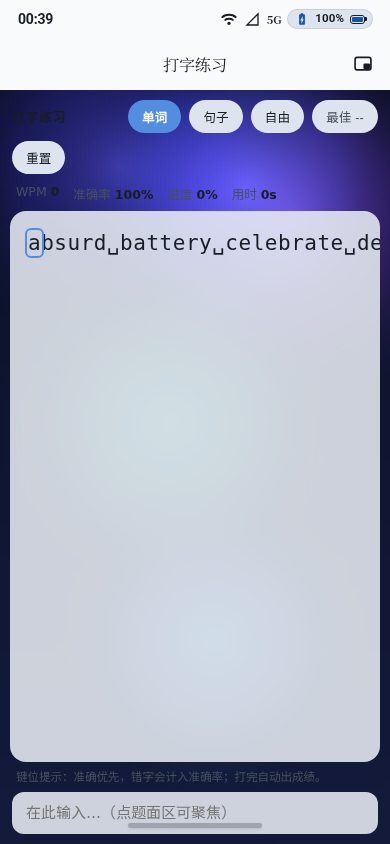
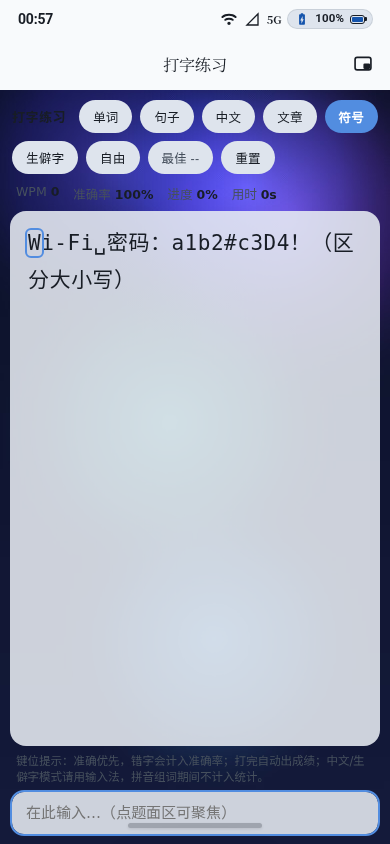
v9.07: #122 打字练习二期闭环（中文短句/文章/符号混打/生僻字四模式 + code-point 安全比对 + IME 组词保护）。①评分核 core.js 升级：compareChars/stats 改 Array.from 按 code point 切分（astral 生僻字代理对如 𠮷 不劈裂，extra/进度/光标全链路码点口径）+ 四套自写题源——中文短句 20 句（全角标点/≤30 码点）、文章段落 5 段（每段 ≥50 码点）、符号混打 12 条（全半角标点/数字/货币/正则样式混排）、生僻字 48 字分六组（全部 BMP 单码位，空格分隔）。②UI：新增 中文/文章/

diff --git a/ios-desktop/apps/typing/core.js b/ios-desktop/apps/typing/core.js
@@ -1,25 +1,29 @@
-/* ==================== core.js — 打字练习核（#122 一期 · v9.06） ====================
+/* ==================== core.js — 打字练习核（#122 一期 v9.06 + 二期 v9.07） ====================
  * 纯函数 IIFE 双挂载（terminal-core 沙箱直驱范式 / v123/v124 同款）：顶层零副作用，
  * 浏览器挂 window.__typingCore，vitest 经 new Function('window', SRC) 沙箱提取。
  *
  * 指标（nightsky nstypepractise t_eftt 练习指示器对标：逐字比对 + 错字高亮 + 完成度）：
  *   · 逐字比对 —— 位置对位（typed[i] vs target[i]，严格区分大小写），
- *     状态四态 pending/ok/bad/extra（extra=超出目标长度的多打字符，一律记错）
+ *     状态四态 pending/ok/bad/extra（extra=超出目标长度的多打字符，一律记错）；
+ *     v9.07 起按 code point 切分（Array.from），生僻字代理对（如 𠮷）不劈裂
  *   · WPM —— 净速度 = 正确字符数 / 5 / 分钟（标准 5 字符=1 词，净制剔除错字）
  *   · 准确率 —— 正确字符数 / 已打字符数（含 extra），未打键不计
  *   · 分级 —— 工程自定值（Human Benchmark 无打字分级常量可循，留痕非对标物）：
  *     键指如飞 ≥60wpm 且 acc≥97 / 熟练 ≥40 / 入门 ≥25 / 新手
  * 词库来源：英文单词模式复用 #28 word 应用 555 词 CET-4 词库（js/word-core.js
  * __wordCore.WORD_BANK，UI 侧 script 直载）；此处仅提供确定性采样（零随机，stride 选取）。
+ * v9.07 二期题源（自写，工程自定内容留痕）：中文短句 20 / 文章段落 5 / 符号混打 12 /
+ * 生僻字 48 字分六组（全部 BMP 单码位，展示与比对均按 code point）。
  */
 (function () {
   'use strict';
 
-  /** 逐字比对：返回与 target 等长的状态数组 + 尾部 extra 多打段 */
+  /** 逐字比对：返回与 target 等码点长的状态数组 + 尾部 extra 多打段
+   *  （v9.07 起 Array.from 按 code point 切分， astral 生僻字不劈裂） */
   function compareChars(target, typed) {
     var out = [];
-    var t = String(target == null ? '' : target);
-    var y = String(typed == null ? '' : typed);
+    var t = Array.from(String(target == null ? '' : target));
+    var y = Array.from(String(typed == null ? '' : typed));
     for (var i = 0; i < t.length; i++) {
       out.push({ ch: t[i], status: i < y.length ? (y[i] === t[i] ? 'ok' : 'bad') : 'pending' });
     }
@@ -29,10 +33,10 @@
     return out;
   }
 
-  /** 统计：净 WPM / 准确率 / 进度 / 完成态（elapsedMs 由调用方计时） */
+  /** 统计：净 WPM / 准确率 / 进度 / 完成态（elapsedMs 由调用方计时；code point 口径） */
   function stats(target, typed, elapsedMs) {
-    var t = String(target == null ? '' : target);
-    var y = String(typed == null ? '' : typed);
+    var t = Array.from(String(target == null ? '' : target));
+    var y = Array.from(String(typed == null ? '' : typed));
     var correct = 0, wrong = 0, i;
     var n = Math.min(t.length, y.length);
     for (i = 0; i < n; i++) { if (y[i] === t[i]) correct++; else wrong++; }
@@ -96,6 +100,66 @@
     'Keep your eyes on the text, not on your hands.'
   ];
 
+  /** ---------- v9.07 二期题源（自写，工程自定内容） ----------
+   *  中文短句（20 句，含全角标点，≤30 字） */
+  var CN_PHRASES = [
+    '千里之行，始于足下。',
+    '书山有路勤为径，学海无涯苦作舟。',
+    '今天也要好好打字，慢慢来比较快。',
+    '滴水穿石，不是力量大，而是功夫深。',
+    '一年之计在于春，一日之计在于晨。',
+    '少壮不努力，老大徒伤悲。',
+    '世上无难事，只怕有心人。',
+    '欲速则不达，见小利则大事不成。',
+    '路遥知马力，日久见人心。',
+    '宝剑锋从磨砺出，梅花香自苦寒来。',
+    '不积跬步，无以至千里；不积小流，无以成江海。',
+    '工欲善其事，必先利其器。',
+    '三人行，必有我师焉。',
+    '知之者不如好之者，好之者不如乐之者。',
+    '博学之，审问之，慎思之，明辨之，笃行之。',
+    '山重水复疑无路，柳暗花明又一村。',
+    '纸上得来终觉浅，绝知此事要躬行。',
+    '问渠那得清如许？为有源头活水来。',
+    '海阔凭鱼跃，天高任鸟飞。',
+    '长风破浪会有时，直挂云帆济沧海。'
+  ];
+
+  /** 文章段落（5 段，每段 50 码点以上） */
+  var CN_PASSAGES = [
+    '夜色渐渐深了，城市的灯火却依然明亮。写字楼的窗户里，有人还在修改明天的方案，有人在给远方的家人打电话。街角的面馆冒着热气，老板娘熟练地下一碗阳春面，撒上葱花，递给刚下夜班的出租车司机。',
+    '春天来的时候，巷口的那棵老槐树先知道。它的枝头冒出嫩绿的芽，先是零星几点，然后是一整片。楼下的小朋友围着树干捉迷藏，老人们搬出竹椅晒太阳，谁家的猫趴在墙头，眯着眼睛看云慢慢飘过去。',
+    '读书的意义，不在于记住每一句话，而在于它悄悄改变你看世界的眼光。你读过的书，走过的路，见过的人，最后都会沉淀成你说话的分寸、做事的底气，和面对困难时不慌不忙的从容。',
+    '清晨的菜市场是最有烟火气的地方。露水还没干的青菜，活蹦乱跳的河虾，刚出炉的烧饼，摊主此起彼伏的吆喝声。讨价还价不是计较，而是一种生活的仪式感——最后拎着菜回家的人，脸上都带着平静的笑。',
+    '键盘上每一个按键都有它自己的声音，敲得快了像下小雨，敲得慢了像数心跳。打字和写字一样，都是把脑子里的想法搬到纸上的过程，区别只是，一个留下墨迹，一个留下字符的光。'
+  ];
+
+  /** 符号混打（12 条：全半角标点/数字/货币/正则样式混排） */
+  var SYMBOL_MIX = [
+    'Wi-Fi 密码：a1b2#c3D4！（区分大小写）',
+    '订单号 #2026-1101·共 3 件，合计 ¥128.50（含税）。',
+    '快捷键 Ctrl+C / Ctrl+V，复制粘贴一步到位！',
+    '邮箱格式：name@example.com；电话：+86 138-0000-0000。',
+    '会议纪要【第 42 期】（周三 14:00）：①复盘 ②排期 ③答疑。',
+    '链接：https://example.com/path?q="md3"&page=2&flag=true',
+    '表达式：(3 + 5) * 2 - 12 / 4 = 13，心算一下对不对？',
+    '标签 <div class="box">　——HTML 转义后是 &lt;div&gt;。',
+    '汇率：1 USD ≈ 7.2 CNY；1 EUR ≈ 7.8 CNY（仅供参考）。',
+    '进度条：[■■■■□□] 66%……预计剩余 8 分 30 秒。',
+    '书名号《三体》、顿号、间隔号·、破折号——都在这一句里！',
+    '正则 /^[a-z0-9_-]{3,16}$/ 匹配用户名，试一试？'
+  ];
+
+  /** 生僻字（48 字分六组，全部 BMP 单码位，空格分隔） */
+  var RARE_GROUPS = [
+    '魑 魅 魍 魉 饕 餮 貔 貅',
+    '囹 圄 龌 龊 龃 龉 觊 觎',
+    '龇 瞋 愆 悛 愣 憬 懵 懈',
+    '戕 戮 殛 殇 殪 毖 泯 汩',
+    '玦 珏 琮 璋 璇 玑 瑾 璞',
+    '耄 耋 皴 皲 盥 磬 罄 縻'
+  ];
+
   /** 兜底词库（word-core 缺载防御，50 常用词） */
   var FALLBACK_WORDS = ['time', 'year', 'people', 'way', 'day', 'man', 'thing', 'woman', 'life', 'child',
     'world', 'school', 'state', 'family', 'student', 'group', 'country', 'problem', 'hand', 'part',
@@ -109,6 +173,10 @@
     grade: grade,
     pickWords: pickWords,
     SENTENCES: SENTENCES,
-    FALLBACK_WORDS: FALLBACK_WORDS
+    FALLBACK_WORDS: FALLBACK_WORDS,
+    CN_PHRASES: CN_PHRASES,
+    CN_PASSAGES: CN_PASSAGES,
+    SYMBOL_MIX: SYMBOL_MIX,
+    RARE_GROUPS: RARE_GROUPS
   };
 })();

diff --git a/ios-desktop/apps/typing/index.html b/ios-desktop/apps/typing/index.html
@@ -105,6 +105,10 @@
     <span id="title">打字练习</span>
     <button class="chip on" id="mWord">单词</button>
     <button class="chip" id="mSent">句子</button>
+    <button class="chip" id="mCn">中文</button>
+    <button class="chip" id="mPassage">文章</button>
+    <button class="chip" id="mSymbol">符号</button>
+    <button class="chip" id="mRare">生僻字</button>
     <button class="chip" id="mFree">自由</button>
     <button class="chip best" id="chipBest">最佳 --</button>
     <button class="chip" id="chipReset">重置</button>
@@ -120,7 +124,7 @@
     <button class="chip" id="freeGo">开始练习</button>
   </div>
   <div id="drill"></div>
-  <div id="hint">键位提示：准确优先，错字会计入准确率；打完自动出成绩。</div>
+  <div id="hint">键位提示：准确优先，错字会计入准确率；打完自动出成绩；中文/生僻字模式请用输入法，拼音组词期间不计入统计。</div>
   <div id="inputBar">
     <input id="inp" type="text" autocomplete="off" autocapitalize="off" autocorrect="off"
            spellcheck="false" inputmode="text" placeholder="在此输入…（点题面区可聚焦）">
@@ -152,13 +156,15 @@
   var drill = $('drill'), inp = $('inp');
   var BEST_KEY = 'typing.best.v1';
 
-  var mode = 'word';            // word | sentence | free
+  var mode = 'word';            // word | sentence | cn | passage | symbol | rare | free
   var target = '';              // 当前题面
   var typed = '';               // 已输入
   var startedAt = 0;            // 首键时间戳
   var timer = null;
   var wordSeed = 1;             // 词组轮换（确定性）
   var sentIdx = 0;              // 句子轮换
+  var bankIdx = { cn: 0, passage: 0, symbol: 0, rare: 0 }; // 二期题源轮换
+  var composing = false;        // IME 组词期（拼音预输入不入统计，v9.07）
   var last = null;              // 最近一次成绩（e2e 桥）
 
   // ---------- 词库：#28 word-core 555 词直载，缺载走兜底 ----------
@@ -173,13 +179,27 @@
     if (mode === 'sentence') {
       return core.SENTENCES[sentIdx % core.SENTENCES.length];
     }
+    if (mode === 'cn') {
+      return core.CN_PHRASES[bankIdx.cn % core.CN_PHRASES.length];
+    }
+    if (mode === 'passage') {
+      return core.CN_PASSAGES[bankIdx.passage % core.CN_PASSAGES.length];
+    }
+    if (mode === 'symbol') {
+      return core.SYMBOL_MIX[bankIdx.symbol % core.SYMBOL_MIX.length];
+    }
+    if (mode === 'rare') {
+      return core.RARE_GROUPS[bankIdx.rare % core.RARE_GROUPS.length];
+    }
     return ($('freeText').value || '').replace(/\s+$/,'');
   }
 
   // ---------- 渲染 ----------
   function render() {
     var arr = core.compareChars(target, typed);
-    var html = '', i, cur = Math.min(typed.length, arr.length - 1);
+    var html = '', i;
+    var yLen = Array.from(typed).length;              // 光标按码点口径（v9.07）
+    var cur = Math.min(yLen, arr.length - 1);
     for (i = 0; i < arr.length; i++) {
       var cls = 'c s-' + arr[i].status + (i === cur && !last ? ' cur' : '');
       var ch = arr[i].ch === ' ' ? '␣' : arr[i].ch;
@@ -246,8 +266,8 @@
     render();
   }
 
-  // ---------- 输入接线 ----------
-  inp.addEventListener('input', function () {
+  // ---------- 输入接线（v9.07：IME 组词期保护，compositionend 才入统计） ----------
+  function processInput() {
     if (last) { inp.value = ''; return; }           // 成绩面板期冻结
     typed = inp.value;
     if (typed && !startedAt) {
@@ -257,6 +277,15 @@
     render();
     var st = core.stats(target, typed, now());
     if (st.done) finish();
+  }
+  inp.addEventListener('compositionstart', function () { composing = true; });
+  inp.addEventListener('compositionend', function () {
+    composing = false;
+    processInput();
+  });
+  inp.addEventListener('input', function () {
+    if (composing) { return; }                       // 拼音预输入不计
+    processInput();
   });
   inp.addEventListener('keydown', function (e) {
     if (e.key === 'Enter') { e.preventDefault(); }   // 题面不含换行，Enter 不产生 extra
@@ -264,10 +293,12 @@
   drill.addEventListener('pointerdown', function () { inp.focus(); });
 
   // ---------- 模式切换 ----------
+  var MODE_CHIP = { word: 'mWord', sentence: 'mSent', cn: 'mCn',
+    passage: 'mPassage', symbol: 'mSymbol', rare: 'mRare', free: 'mFree' };
   function setMode(m) {
     mode = m;
-    ['mWord', 'mSent', 'mFree'].forEach(function (id) { $(id).classList.remove('on'); });
-    $({ word: 'mWord', sentence: 'mSent', free: 'mFree' }[m]).classList.add('on');
+    Object.keys(MODE_CHIP).forEach(function (k) { $(MODE_CHIP[k]).classList.remove('on'); });
+    $(MODE_CHIP[m]).classList.add('on');
     $('freeBox').classList.toggle('show', m === 'free');
     inp.value = '';
     if (m === 'free' && !$('freeText').value) { drill.innerHTML = '<span class="c s-pend">在下方输入自定义内容后开始练习…</span>'; return; }
@@ -275,11 +306,16 @@
   }
   $('mWord').addEventListener('click', function () { setMode('word'); });
   $('mSent').addEventListener('click', function () { setMode('sentence'); });
+  $('mCn').addEventListener('click', function () { setMode('cn'); });
+  $('mPassage').addEventListener('click', function () { setMode('passage'); });
+  $('mSymbol').addEventListener('click', function () { setMode('symbol'); });
+  $('mRare').addEventListener('click', function () { setMode('rare'); });
   $('mFree').addEventListener('click', function () { setMode('free'); });
   $('freeGo').addEventListener('click', function () { setMode('free'); inp.focus(); });
   $('nextBtn').addEventListener('click', function () {
     if (mode === 'word') wordSeed++;
-    if (mode === 'sentence') sentIdx++;
+    else if (mode === 'sentence') sentIdx++;
+    else if (bankIdx[mode] != null) bankIdx[mode]++;
     inp.value = '';
     startSession();
     inp.focus();
@@ -300,6 +336,8 @@
     get typed() { return typed; },
     get last() { return last; },
     get best() { return (bests()[mode] || {}).wpm || 0; },
+    get bankIdx() { return bankIdx; },
+    get composing() { return composing; },
     stats: function () { return core.stats(target, typed, now()); },
     grade: function () { return core.grade(last ? last.wpm : 0, last ? last.acc : 0); },
     setTyped: function (v) { inp.value = String(v); inp.dispatchEvent(new Event('input')); }

diff --git a/tests/v122-typing.test.js b/tests/v122-typing.test.js
@@ -1,10 +1,12 @@
-// ==================== v122-typing.test.js — #122 打字练习一期（v9.06） ====================
+// ==================== v122-typing.test.js — #122 打字练习一期 v9.06 + 二期 v9.07 ====================
 //
-// 覆盖（#122 一期验收原文逐条）：
+// 覆盖（#122 验收原文逐条）：
 //   · 逐字比对（t_eftt 指示器对标）：四态 pending/ok/bad/extra + 错字定位
 //   · 统计：净 WPM（5 字符=1 词）/ 准确率 / 进度 / 完成态
-//   · 分级五→四档边界（工程自定值留痕）
+//   · 分级四档边界（工程自定值留痕）
 //   · 词采样确定性（零随机 stride）+ 英文句子题源 + 兜底词库
+//   · 二期（v9.07）：code-point 安全比对（astral 代理对不劈裂）
+//     + 中文短句/文章段落/符号混打/生僻字题源 + IME 组词保护接线
 //   · 注册链：apps-data 聚合 48 项 / 包装器 / 终端映射 / 图标在册 / 版本真源
 
 import { describe, it, expect } from 'vitest';
@@ -104,6 +106,69 @@ describe('v9.06 #122 core：题源与采样', () => {
   });
 });
 
+describe('v9.07 #122 二期：code-point 安全比对（astral 代理对不劈裂）', () => {
+  it('astral 字符整体比对：𠮷 不被劈成代理对', () => {
+    const r = core.compareChars('𠮷a', '𠮷a');
+    expect(r.map((c) => c.status)).toEqual(['ok', 'ok']);
+    expect(r[0].ch).toBe('𠮷');
+  });
+  it('astral 错字：整码点记 bad（非 surrogate 半边）', () => {
+    const r = core.compareChars('𠮷', '边');
+    expect(r.map((c) => c.status)).toEqual(['bad']);
+  });
+  it('astral 统计：5 码点 60s → 1 wpm / acc 100 / done', () => {
+    const t5 = '𠮷'.repeat(5);
+    const st = core.stats(t5, t5, 60000);
+    expect(st.correct).toBe(5);
+    expect(st.wpm).toBe(1);
+    expect(st.acc).toBe(100);
+    expect(st.done).toBe(true);
+  });
+  it('astral extra：多打按码点计（非 UTF-16 单元）', () => {
+    const st = core.stats('ab', 'ab𠮷', 0);
+    expect(st.extra).toBe(1);
+    expect(st.wrong).toBe(1);
+  });
+});
+
+describe('v9.07 #122 二期：中文/文章/符号/生僻字题源', () => {
+  it('中文短句 20：唯一、含全角标点、每句 ≤30 码点', () => {
+    expect(core.CN_PHRASES.length).toBe(20);
+    expect(new Set(core.CN_PHRASES).size).toBe(20);
+    for (const s of core.CN_PHRASES) {
+      expect(Array.from(s).length).toBeLessThanOrEqual(30);
+      expect(s).toMatch(/[，。；？]/);
+    }
+  });
+  it('文章段落 5：唯一且每段 ≥50 码点', () => {
+    expect(core.CN_PASSAGES.length).toBe(5);
+    expect(new Set(core.CN_PASSAGES).size).toBe(5);
+    for (const s of core.CN_PASSAGES) expect(Array.from(s).length).toBeGreaterThanOrEqual(50);
+  });
+  it('符号混打 12：唯一且全半角符号/数字/字母混排', () => {
+    expect(core.SYMBOL_MIX.length).toBe(12);
+    expect(new Set(core.SYMBOL_MIX).size).toBe(12);
+    const all = core.SYMBOL_MIX.join('');
+    expect(all).toMatch(/[0-9]/);
+    expect(all).toMatch(/[a-zA-Z]/);
+    expect(all).toContain('¥');
+    expect(all).toContain('（');
+  });
+  it('生僻字 6 组×8=48 字：单码位 BMP、互不重复', () => {
+    expect(core.RARE_GROUPS.length).toBe(6);
+    const chars = core.RARE_GROUPS.flatMap((g) => Array.from(g)).filter((c) => c !== ' ');
+    expect(chars.length).toBe(48);
+    expect(new Set(chars).size).toBe(48);
+    for (const c of chars) expect(c.codePointAt(0)).toBeLessThan(0x10000);
+  });
+  it('UI 面：四枚新模式 chips + IME 组词保护 + 新题源接线在册', () => {
+    for (const id of ['id="mCn"', 'id="mPassage"', 'id="mSymbol"', 'id="mRare"',
+      'compositionstart', 'compositionend', 'CN_PHRASES', 'CN_PASSAGES', 'SYMBOL_MIX', 'RARE_GROUPS', 'bankIdx']) {
+      expect(UI_SRC).toContain(id);
+    }
+  });
+});
+
 describe('v9.06 #122 UI 与注册链', () => {
   it('UI 面：模式 chips/统计条/题面/输入/成绩面板/最佳 chip/只读桥在册', () => {
     for (const id of ['id="mWord"', 'id="mSent"', 'id="mFree"', 'id="drill"', 'id="inp"',
@@ -145,9 +210,9 @@ describe('v9.06 #122 UI 与注册链', () => {
   });
   it('版本真源与 README 同步（v150 同口径）', () => {
     const pkg = JSON.parse(readFileSync(join(ROOT, 'package.json'), 'utf-8'));
-    expect(pkg.version).toBe('9.6.0');
+    expect(pkg.version).toBe('9.7.0');
     const readme = readFileSync(join(ROOT, 'README.md'), 'utf-8');
     expect(readme).toContain('48');
-    expect(readme).toContain('v9.06');
+    expect(readme).toContain('v9.07');
   });
 });

diff --git a/tests/v124-drawcircle.test.js b/tests/v124-drawcircle.test.js
@@ -157,7 +157,7 @@ describe('v9.05 #124 UI 与注册链', () => {
 
   it('版本真源与 README 同步（v150 同口径）', () => {
     const pkg = JSON.parse(readFileSync(join(ROOT, 'package.json'), 'utf-8'));
-    expect(pkg.version).toBe('9.6.0'); // v9.06 #122
+    expect(pkg.version).toBe('9.7.0'); // v9.07 #122 二期
     const readme = readFileSync(join(ROOT, 'README.md'), 'utf-8');
     expect(readme).toContain('48');
   });

diff --git a/README.md b/README.md
@@ -4,7 +4,7 @@
 > 48 个内置应用、锁屏、动态壁纸、Material Design 3 动态取色、弹簧物理动画、最近任务、
 > 下拉通知/控制中心（A17 dual shade 分家模式可切换）、预测性返回、Dock 栏、真小窗、分屏……
 <!-- md3:version:start -->
-> **当前版本 v9.06** · 单一真源 `package.json`（version 字段）→ `scripts/sync-readme-version.mjs` 写入本块，
+> **当前版本 v9.07** · 单一真源 `package.json`（version 字段）→ `scripts/sync-readme-version.mjs` 写入本块，
 > 漂移由 `tests/v150-readme-version.test.js` 门禁拦截 · 逐版演进史见 [ROADMAP.md](ROADMAP.md)
 <!-- md3:version:end -->
 
